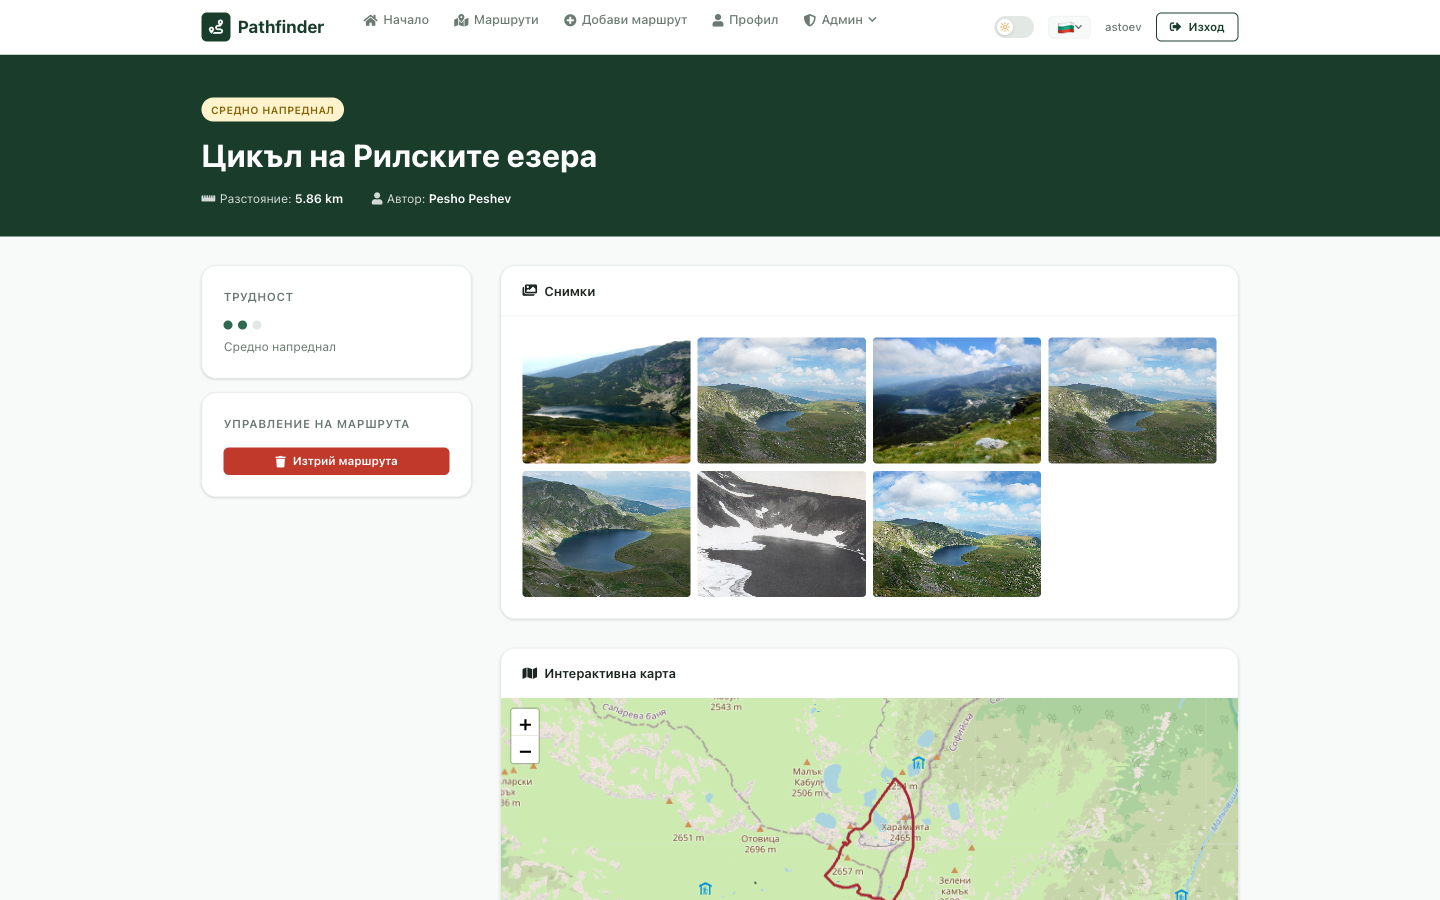
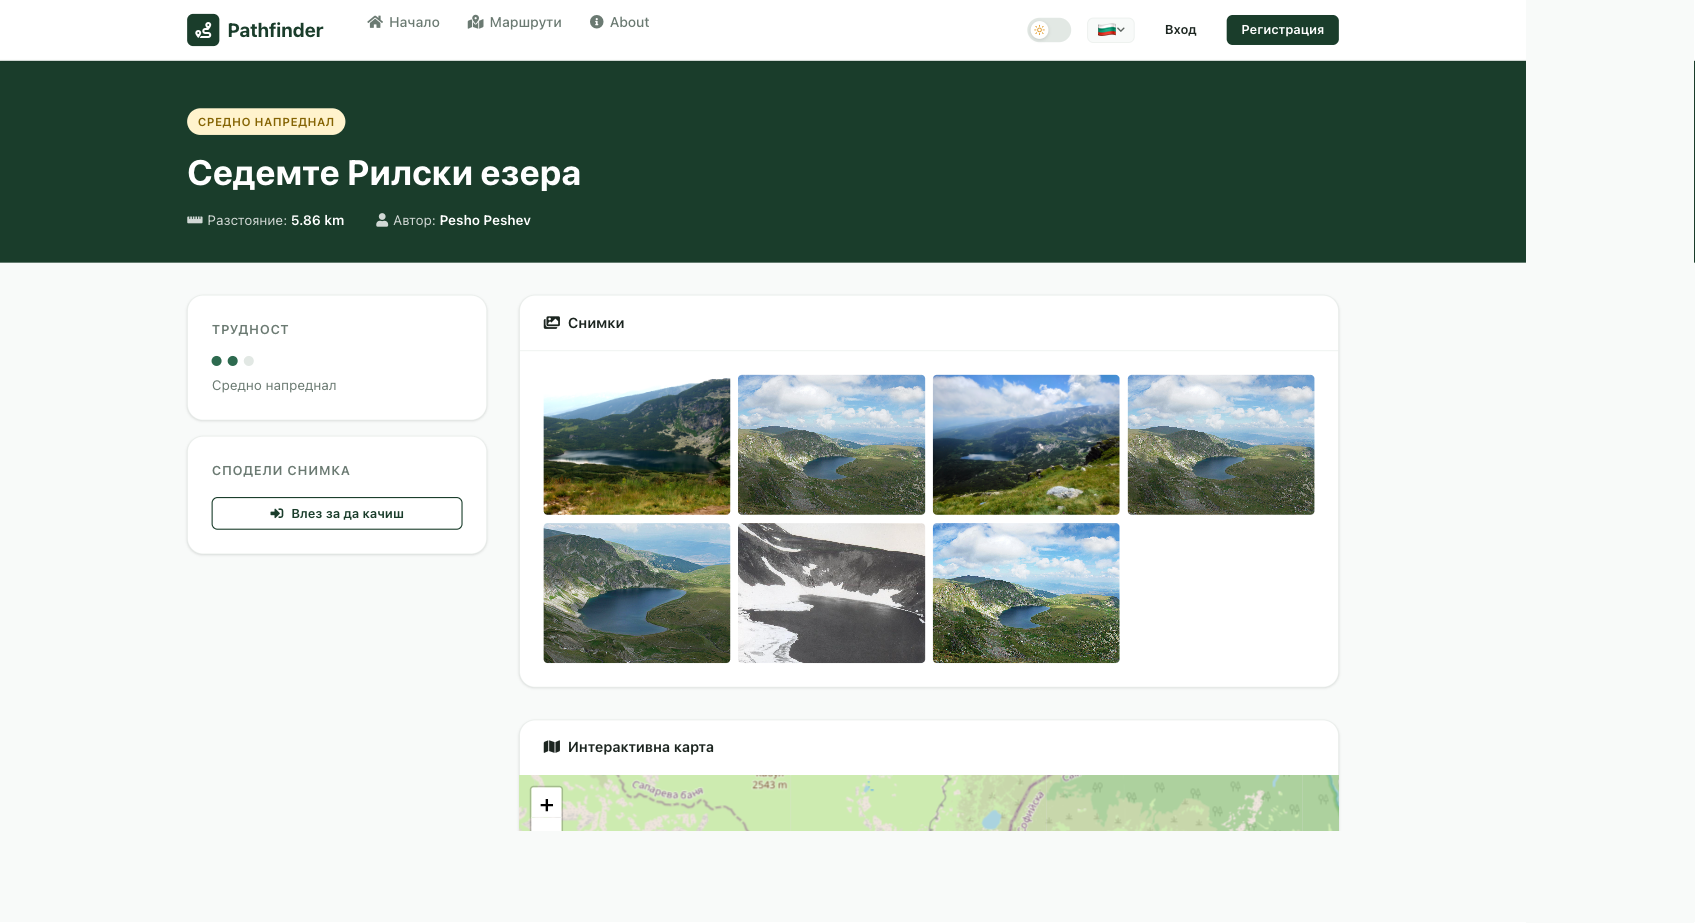
docs: retake promo screenshot for renamed route
Route 10 was renamed from "Цикъл на Рилските езера" to
"Седемте Рилски езера"; update promo.png and README caption.

diff --git a/README.md b/README.md
@@ -36,7 +36,7 @@ A Spring Boot web application for sharing and discovering hiking, cycling, and d
 ### Admin Panel — User Permissions
 ![User Permissions](assets/05.png)
 
-### Promo — Цикъл на Рилските езера
+### Promo — Седемте Рилски езера
 ![Promo](assets/promo.png)
 
 ---
